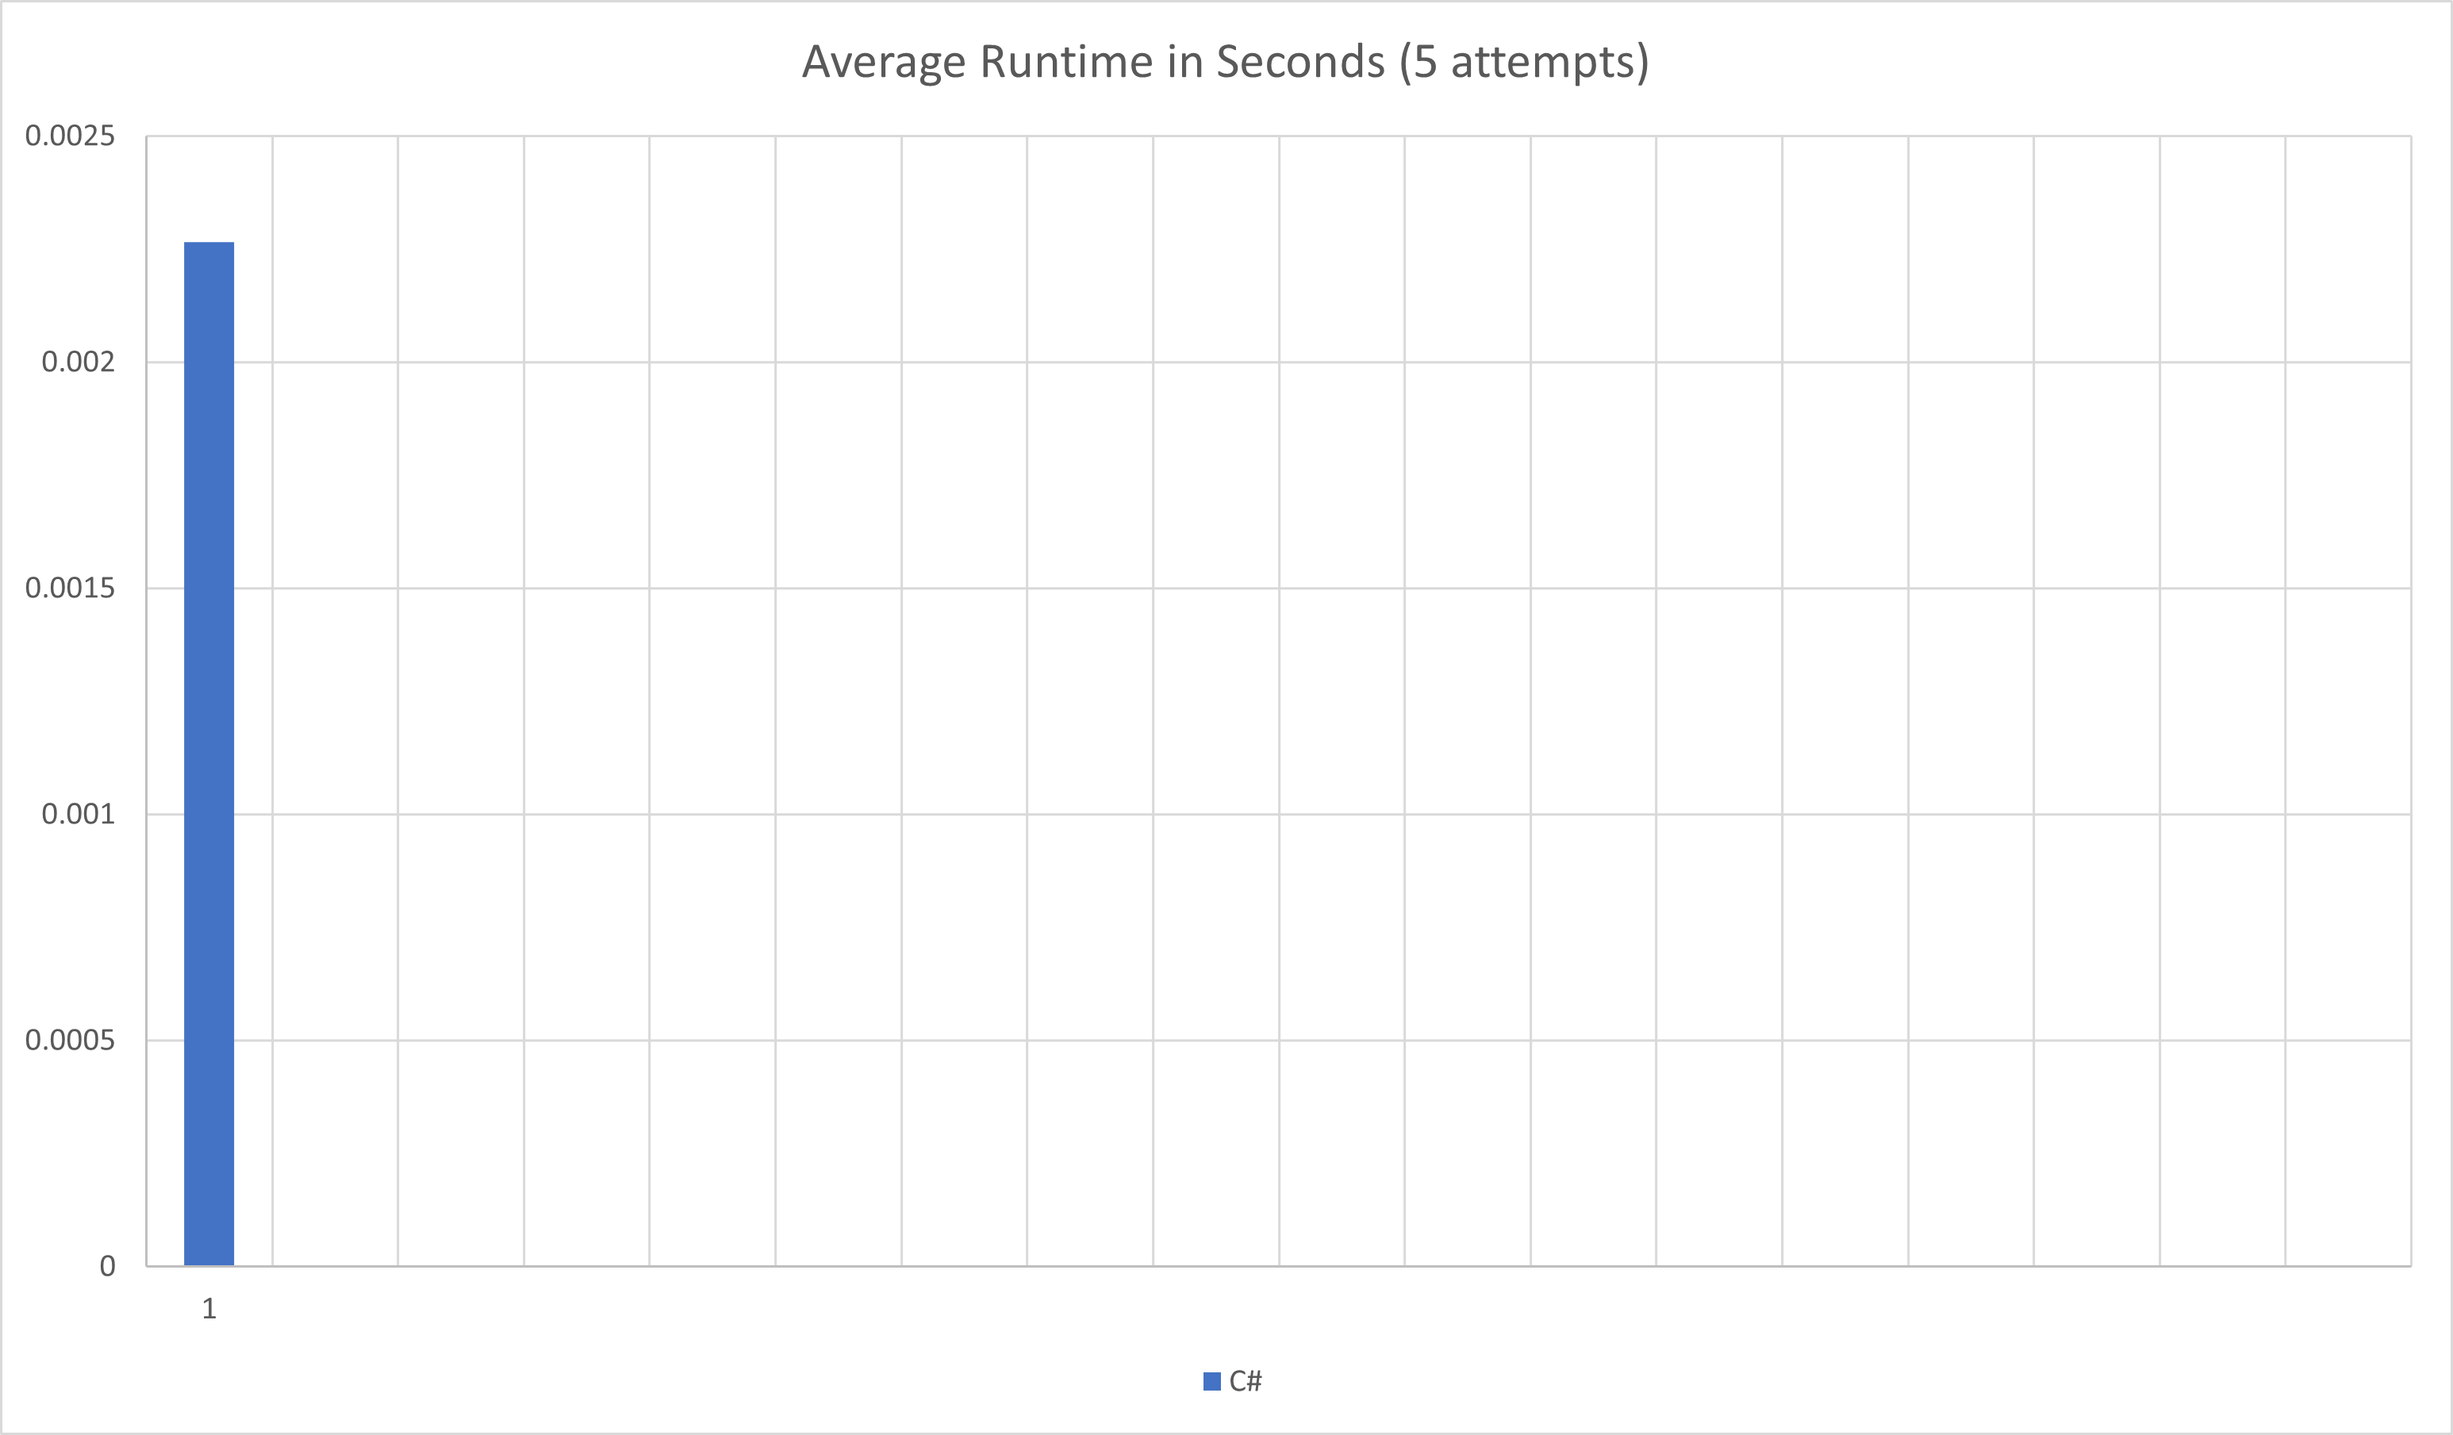
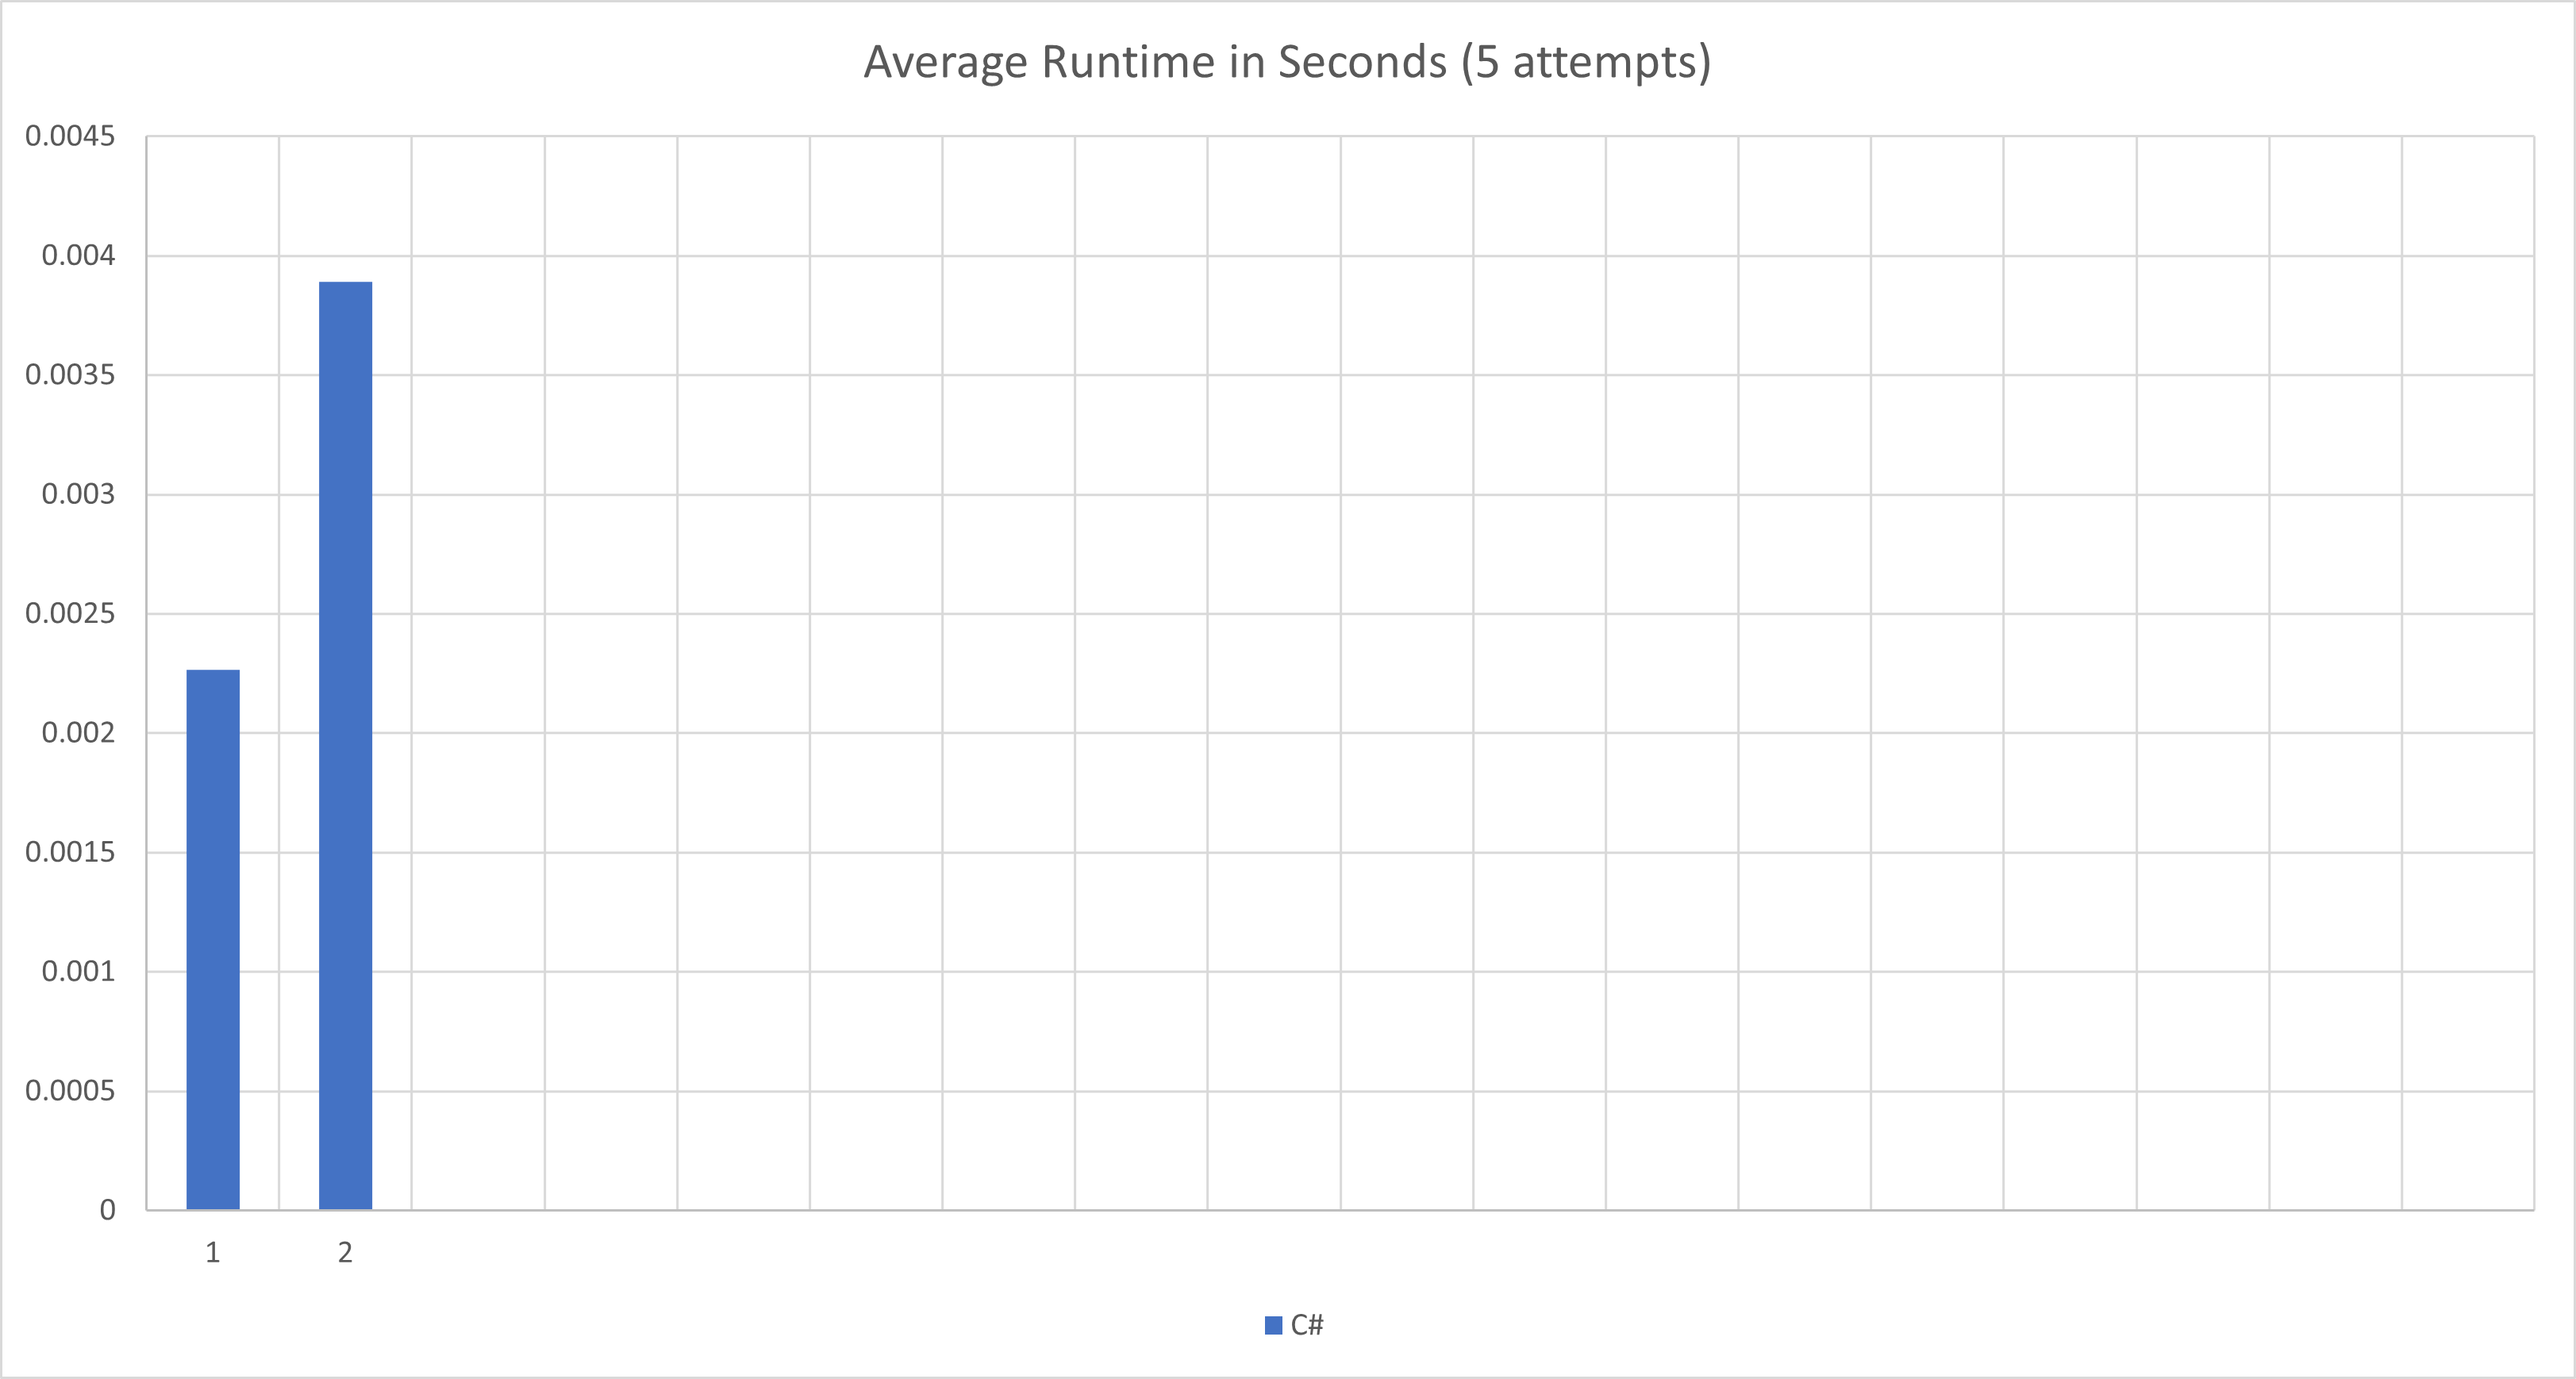
Solve 2025, day 2

diff --git a/2025/csharp/AdventOfCode2025/Solvers/Day02Solver.cs b/2025/csharp/AdventOfCode2025/Solvers/Day02Solver.cs
@@ -1,0 +1,116 @@
+using System;
+using System.Collections.Generic;
+using System.Linq;
+
+namespace AdventOfCode2025.Solvers;
+
+internal class Day02Solver : ISolver
+{
+    private const string Name = "Day 2";
+    private const string InputFile = "day02input.txt";
+
+    public void Solve()
+    {
+        Console.WriteLine(Name);
+        var lines = Input.GetLinesFromFile(InputFile)
+            .SelectMany(line => line.Split(','))
+            .Select(range => range.Split('-').Select(long.Parse).ToArray())
+            .ToList();
+
+        Console.WriteLine($"Output (part 1): {GetPart1Answer(lines)}");
+        Console.WriteLine($"Output (part 2): {GetPart2Answer(lines)}");
+    }
+
+    private static long GetPart1Answer(List<long[]> ranges)
+    {
+        var sum = 0L;
+        foreach (var range in ranges)
+        {
+            var start = range[0];
+            var end = range[1];
+
+            // Take off too many digits, rather than too few, for odd counts.
+            var trailingDigits = (1 + DigitsIn(start)) / 2;
+
+            var pattern = DecimalShiftRight(start, trailingDigits);
+
+            var lastTry = 0L;
+            while (lastTry < end)
+            {
+                lastTry = DecimalShiftLeft(pattern, DigitsIn(pattern)) + pattern;
+
+                if (start <= lastTry && lastTry <= end)
+                {
+                    sum += lastTry;
+                }
+                pattern++;
+            }
+        }
+        return sum;
+    }
+
+    private static long GetPart2Answer(List<long[]> ranges)
+    {
+        var invalidSet = new HashSet<long>();
+        foreach (var range in ranges)
+        {
+            var start = range[0];
+            var end = range[1];
+
+            var maxPatternDigits = DigitsIn(end) / 2;
+
+            var pattern = 1L;
+
+            var patternDigits = 1;
+            while (patternDigits <= maxPatternDigits)
+            {
+                var lastTry = pattern;
+                while (lastTry < end)
+                {
+                    lastTry = DecimalShiftLeft(lastTry, patternDigits) + pattern;
+
+                    if (start <= lastTry && lastTry <= end)
+                    {
+                        invalidSet.Add(lastTry);
+                    }
+                }
+                pattern++;
+                patternDigits = DigitsIn(pattern);
+            }
+        }
+        return invalidSet.Sum();
+
+    }
+
+    private static int DigitsIn(long num)
+    {
+        var count = 0;
+
+        while (num > 0)
+        {
+            num /= 10;
+            count++;
+        }
+        return count;
+    }
+
+    private static long DecimalShiftLeft(long num, int shift)
+    {
+        while (shift > 0)
+        {
+            num *= 10;
+            shift--;
+        }
+        return num;
+    }
+
+    private static long DecimalShiftRight(long num, int shift)
+    {
+        while (shift > 0)
+        {
+            num /= 10;
+            shift--;
+        }
+        return num;
+    }
+}

diff --git a/2025/csharp/AdventOfCode2025/Program.cs b/2025/csharp/AdventOfCode2025/Program.cs
@@ -11,6 +11,7 @@ public static class Program
     private static readonly IReadOnlyList<ISolver> Solvers = new ISolver[]
     {
         new Day01Solver(),
+        new Day02Solver(),
     };
 
     public static void Main()

diff --git a/2025/README.md b/2025/README.md
@@ -1,7 +1,7 @@
 # Advent of Code 2025
 Solutions to [Advent of Code 2025](https://adventofcode.com/2025)
 
-I thought I wouldn't have any time for Advent of Code this year, but I still wanted to get a few in at the end.
+My shortened time for puzzles was met this year with a shortened schedule of 12 problems, so of course I'm going to give them a go.
 
 As usual, I'll probably keep solving these over time, so I'll track which solutions I've done, in the chart below.
 
@@ -9,7 +9,7 @@ As usual, I'll probably keep solving these over time, so I'll track which soluti
 
 |      |1|2|3|4|5|6|7|8|9|10|11|12|
 |------|-|-|-|-|-|-|-|-|-|--|--|--|
-|**C#**|🌟| | | | | | | | |  |  |  |
+|**C#**|🌟|🌟| | | | | | | |  |  |  |
 
 ⭐ - First star completed\
 🌟 - Both stars completed
@@ -38,8 +38,8 @@ dotnet run --project .\AdventOfCode2025\AdventOfCode2025.csproj --configuration=
 I know! It's a manual process. That bugs me too. I'm open to suggestions, but I do want to keep it flexible for multiple languages and edge cases.
 
 ## Environment
-* Visual Studio 2026
-* [.NET 8](https://dotnet.microsoft.com/download/dotnet/8.0) / C# 12
+* nvim / Visual Studio 2026
+* [.NET 10](https://dotnet.microsoft.com/download/dotnet/10.0) / C# 14
 
 ## Links
 * [Advent of Code](https://adventofcode.com)
